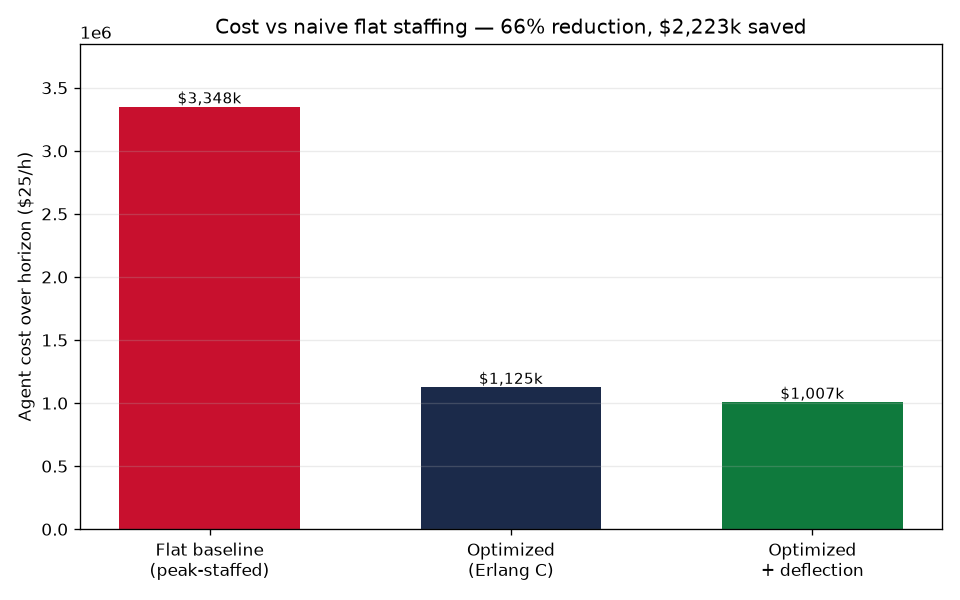
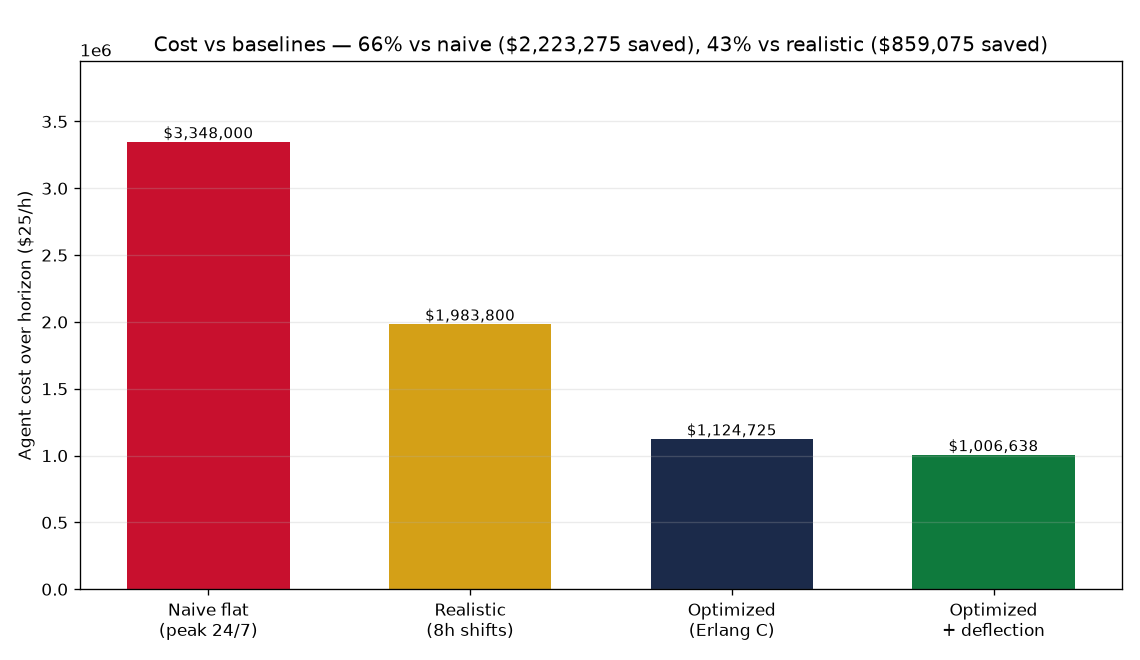
feat: realistic shift-based savings baseline + full-value savings chart

Changed region(s): [[0.0, 0.03, 1.0, 0.99]]

diff --git a/src/optimize.py b/src/optimize.py
@@ -121,18 +121,37 @@ def agent_hours(scheduled) -> float:
 
 
 def cost_summary(plan: pd.DataFrame) -> dict:
-    """Optimized vs naive flat baseline (peak-staffed every interval)."""
+    """Optimized vs two baselines:
+      - NAIVE flat: peak headcount in every interval, 24/7 (the strawman).
+      - REALISTIC: each fixed shift block staffed to that block's peak interval (no intraday
+        flexing) — what a center running fixed shifts without WFM would do.
+    """
     opt_hours = agent_hours(plan["scheduled_agents"])
+    saved = lambda base: base - opt_hours
+    cost = config.AGENT_HOURLY_COST
+
     peak_scheduled = int(plan["scheduled_agents"].max())
     flat_hours = peak_scheduled * len(plan) * INTERVAL_HOURS
-    saved_hours = flat_hours - opt_hours
+
+    block_hours = config.REALISTIC_BASELINE_BLOCK_HOURS
+    intervals_per_block = block_hours * (60 // config.INTERVAL_MINUTES)
+    block = plan["interval_index"] // intervals_per_block
+    realistic_sched = plan.groupby([plan["date"], block])["scheduled_agents"].transform("max")
+    realistic_hours = agent_hours(realistic_sched)
+
     return {
-        "opt_hours": opt_hours, "flat_hours": flat_hours, "peak_scheduled": peak_scheduled,
-        "saved_hours": saved_hours,
-        "opt_cost": opt_hours * config.AGENT_HOURLY_COST,
-        "flat_cost": flat_hours * config.AGENT_HOURLY_COST,
-        "saved_dollars": saved_hours * config.AGENT_HOURLY_COST,
-        "pct_reduction": saved_hours / flat_hours if flat_hours else 0.0,
+        "opt_hours": opt_hours, "opt_cost": opt_hours * cost,
+        "peak_scheduled": peak_scheduled,
+        # naive flat baseline
+        "flat_hours": flat_hours, "flat_cost": flat_hours * cost,
+        "saved_hours": saved(flat_hours), "saved_dollars": saved(flat_hours) * cost,
+        "pct_reduction": saved(flat_hours) / flat_hours if flat_hours else 0.0,
+        # realistic shift-block baseline
+        "block_hours": block_hours,
+        "realistic_hours": realistic_hours, "realistic_cost": realistic_hours * cost,
+        "realistic_saved_hours": saved(realistic_hours),
+        "realistic_saved_dollars": saved(realistic_hours) * cost,
+        "realistic_pct_reduction": saved(realistic_hours) / realistic_hours if realistic_hours else 0.0,
     }
 
 
@@ -173,21 +192,25 @@ def plot_savings(cost, deflect_cost, path):
     matplotlib.use("Agg")
     import matplotlib.pyplot as plt
 
-    labels = ["Flat baseline\n(peak-staffed)", "Optimized\n(Erlang C)", "Optimized\n+ deflection"]
-    costs = [cost["flat_cost"], cost["opt_cost"], deflect_cost]
-    colors = ["#c8102e", "#1b2a4a", "#0f7a3d"]
-    x = np.arange(3)
-    fig, ax = plt.subplots(figsize=(8, 5))
-    bars = ax.bar(x, costs, color=colors, width=0.6)
-    for b, c in zip(bars, costs):
-        ax.annotate(f"${c/1000:,.0f}k", (b.get_x() + b.get_width() / 2, c),
+    labels = ["Naive flat\n(peak 24/7)", f"Realistic\n({cost['block_hours']}h shifts)",
+              "Optimized\n(Erlang C)", "Optimized\n+ deflection"]
+    costs = [cost["flat_cost"], cost["realistic_cost"], cost["opt_cost"], deflect_cost]
+    colors = ["#c8102e", "#d4a017", "#1b2a4a", "#0f7a3d"]
+    x = np.arange(len(costs))
+    fig, ax = plt.subplots(figsize=(9.5, 5.5))
+    bars = ax.bar(x, costs, color=colors, width=0.62)
+    for b, val in zip(bars, costs):
+        # escape $ so matplotlib does not treat it as mathtext
+        ax.annotate(f"\\${val:,.0f}", (b.get_x() + b.get_width() / 2, val),
                     ha="center", va="bottom", fontsize=9)
     ax.set_xticks(x)
     ax.set_xticklabels(labels)
-    ax.set_ylabel(f"Agent cost over horizon (${config.AGENT_HOURLY_COST:.0f}/h)")
-    ax.set_title(f"Cost vs naive flat staffing — {cost['pct_reduction']*100:.0f}% reduction, "
-                 f"${cost['saved_dollars']/1000:,.0f}k saved")
-    ax.set_ylim(0, max(costs) * 1.15)
+    ax.set_ylabel(f"Agent cost over horizon (\\${config.AGENT_HOURLY_COST:.0f}/h)")
+    ax.set_title(f"Cost vs baselines — {cost['pct_reduction']*100:.0f}% vs naive "
+                 f"(\\${cost['saved_dollars']:,.0f} saved), "
+                 f"{cost['realistic_pct_reduction']*100:.0f}% vs realistic "
+                 f"(\\${cost['realistic_saved_dollars']:,.0f} saved)")
+    ax.set_ylim(0, max(costs) * 1.18)
     ax.grid(True, axis="y", alpha=0.25)
     fig.tight_layout()
     path.parent.mkdir(parents=True, exist_ok=True)
@@ -271,12 +294,16 @@ def _print_summary(r: dict, plan: pd.DataFrame) -> None:
           f"IROP x{config.IROP_VOLUME_MULTIPLIER:g}")
     print("-" * 72)
     print("AGENT-HOURS over the horizon:")
-    print(f"  Flat baseline (naive: {c['peak_scheduled']} agents every interval, incl. overnight): "
+    print(f"  Naive flat baseline   ({c['peak_scheduled']} agents every interval, 24/7): "
           f"{c['flat_hours']:>11,.0f} h  -> ${c['flat_cost']:>13,.0f}")
-    print(f"  Optimized  (Erlang C, interval-by-interval)                  : "
+    print(f"  Realistic baseline    ({c['block_hours']}h shifts -> each shift's peak)   : "
+          f"{c['realistic_hours']:>11,.0f} h  -> ${c['realistic_cost']:>13,.0f}")
+    print(f"  Optimized             (Erlang C, interval-by-interval)  : "
           f"{c['opt_hours']:>11,.0f} h  -> ${c['opt_cost']:>13,.0f}")
-    print(f"  >>> SAVINGS: {c['saved_hours']:,.0f} agent-hours = "
-          f"${c['saved_dollars']:,.0f}  ({c['pct_reduction']*100:.1f}% reduction)")
+    print(f"  >>> SAVINGS vs NAIVE flat: {c['saved_hours']:>9,.0f} h = "
+          f"${c['saved_dollars']:>12,.0f}  ({c['pct_reduction']*100:.1f}% reduction)")
+    print(f"  >>> SAVINGS vs REALISTIC : {c['realistic_saved_hours']:>9,.0f} h = "
+          f"${c['realistic_saved_dollars']:>12,.0f}  ({c['realistic_pct_reduction']*100:.1f}% reduction)")
     print("-" * 72)
     print("SERVICE QUALITY:")
     print(f"  Optimized: sized so every interval meets >= {config.TARGET_SL*100:.0f}% by "

diff --git a/config.py b/config.py
@@ -29,3 +29,8 @@ DEFLECTION_RATE = 0.20        # ASSUMPTION: 20% of deflectable contacts self-ser
 # IROP stress scenario: a major disruption day multiplies contact volume and
 # lengthens handle time (the reason mix shifts toward longer IROP_Rebooking).
 IROP_VOLUME_MULTIPLIER = 2.5  # ASSUMPTION: ~2.5x contact volume on an IROP day
+
+# Realistic (less-naive) staffing baseline: a center running fixed shifts staffs each
+# shift to its peak interval (no intraday flexing) — the "vs realistic" savings comparison,
+# distinct from the naive "peak headcount every interval, 24/7" baseline.
+REALISTIC_BASELINE_BLOCK_HOURS = 8  # ASSUMPTION: 8h shift blocks for the realistic baseline